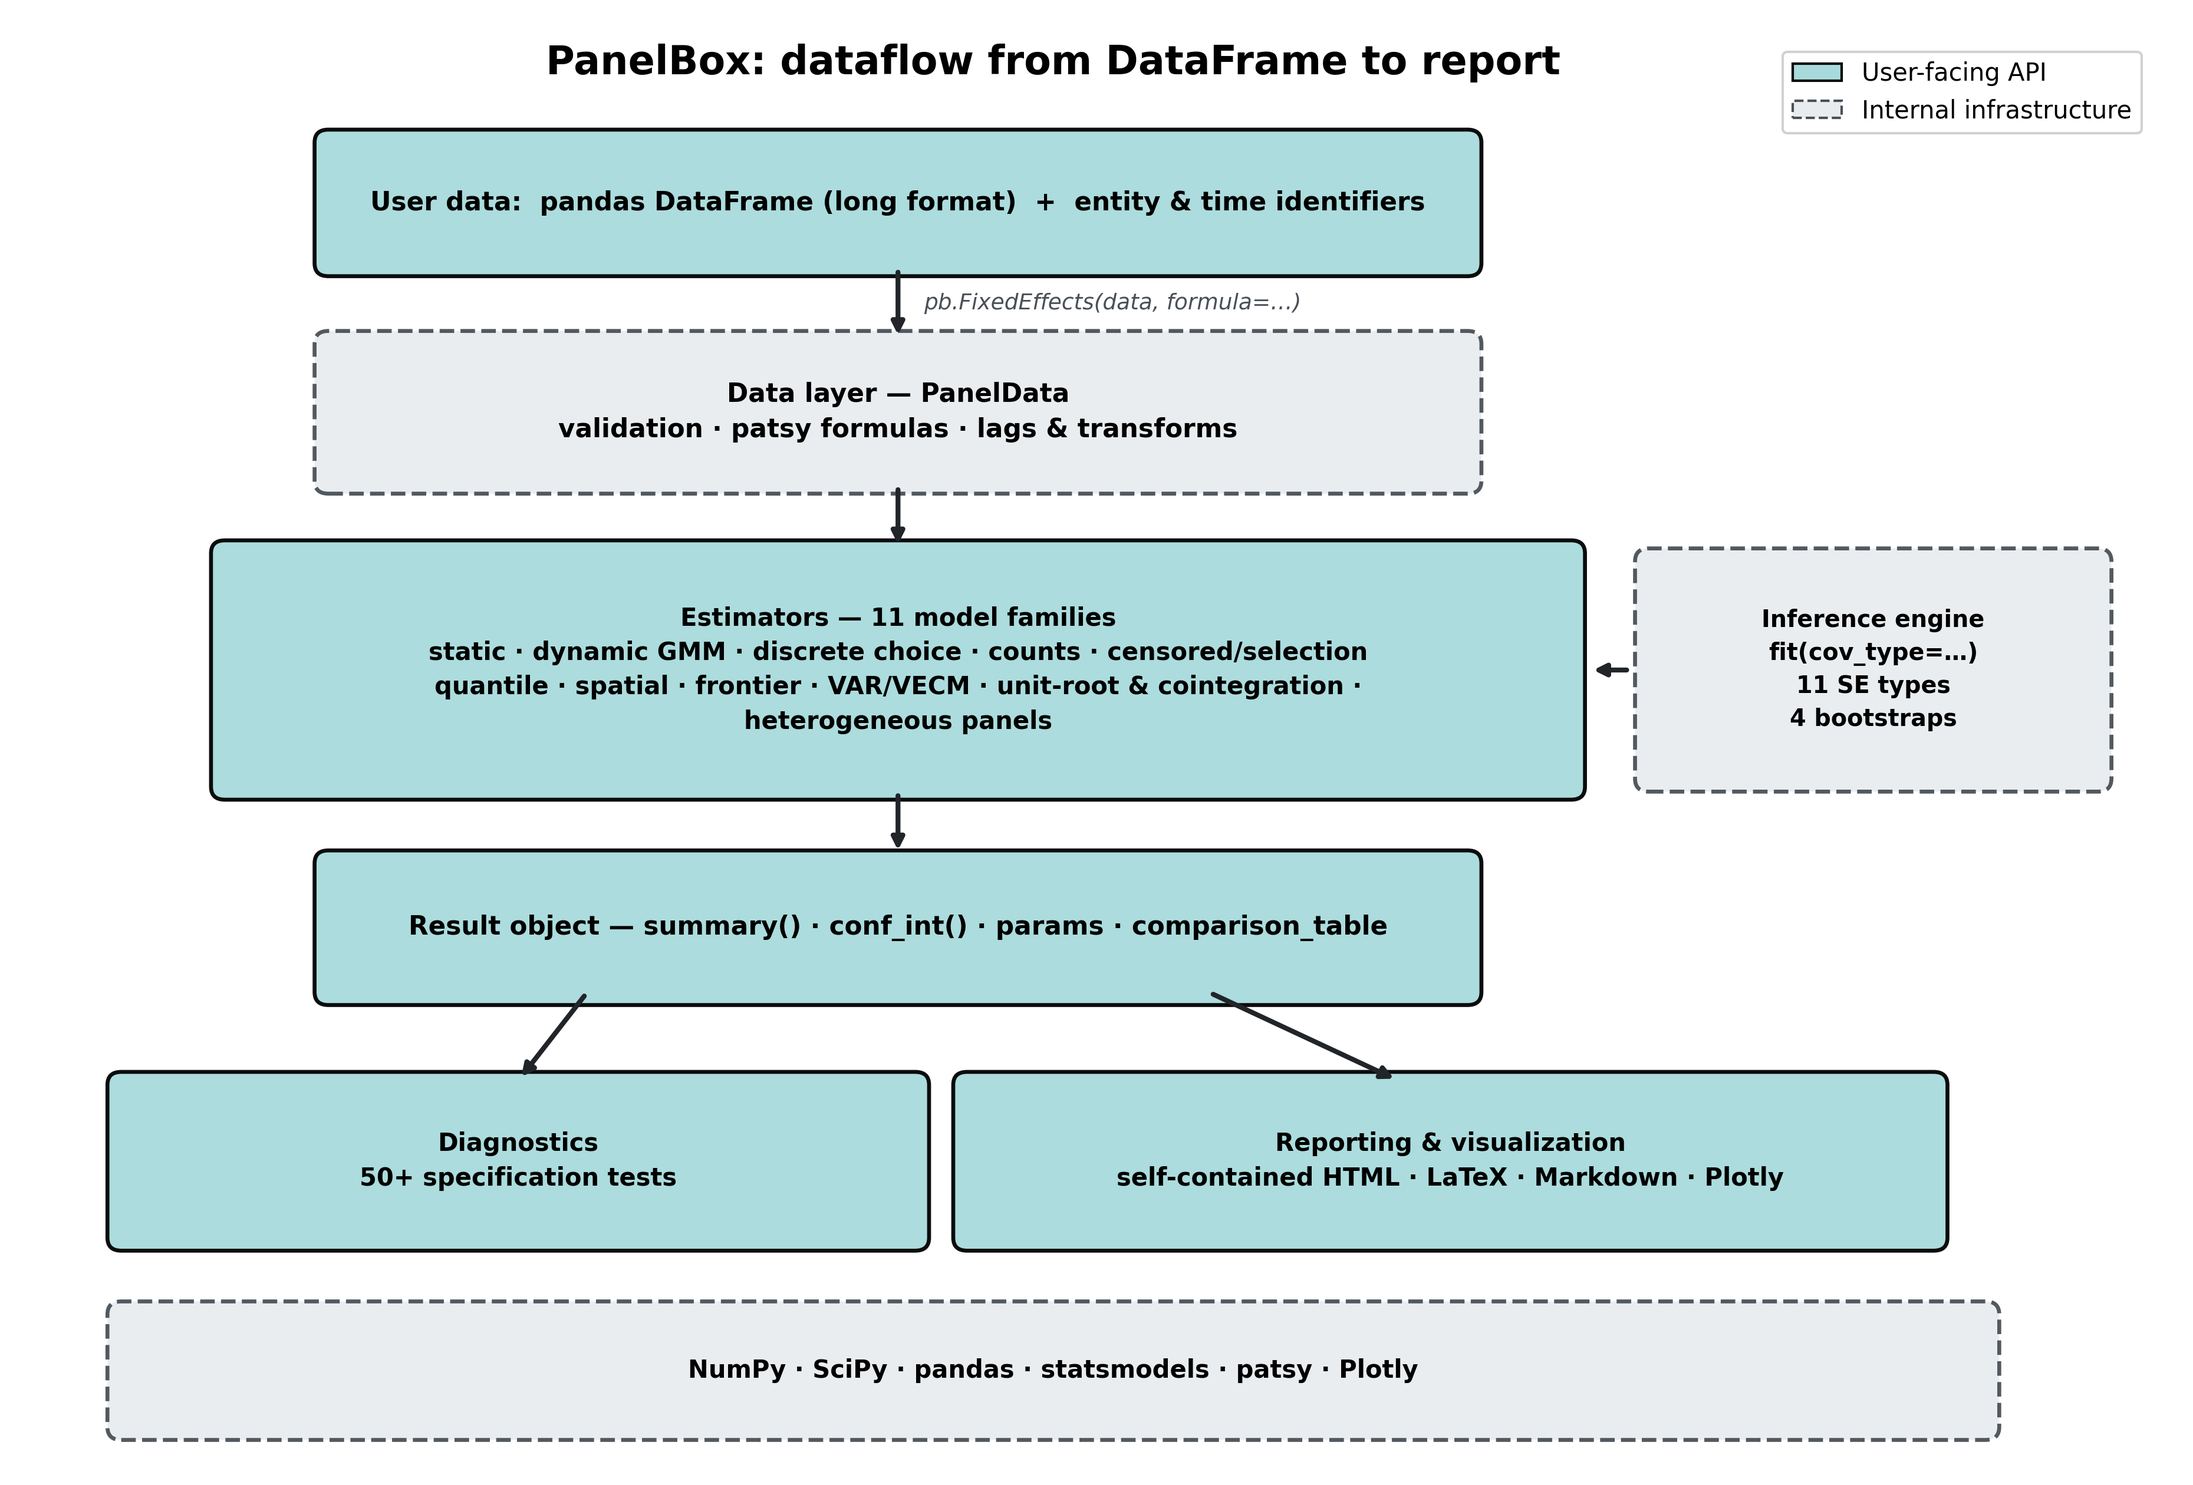
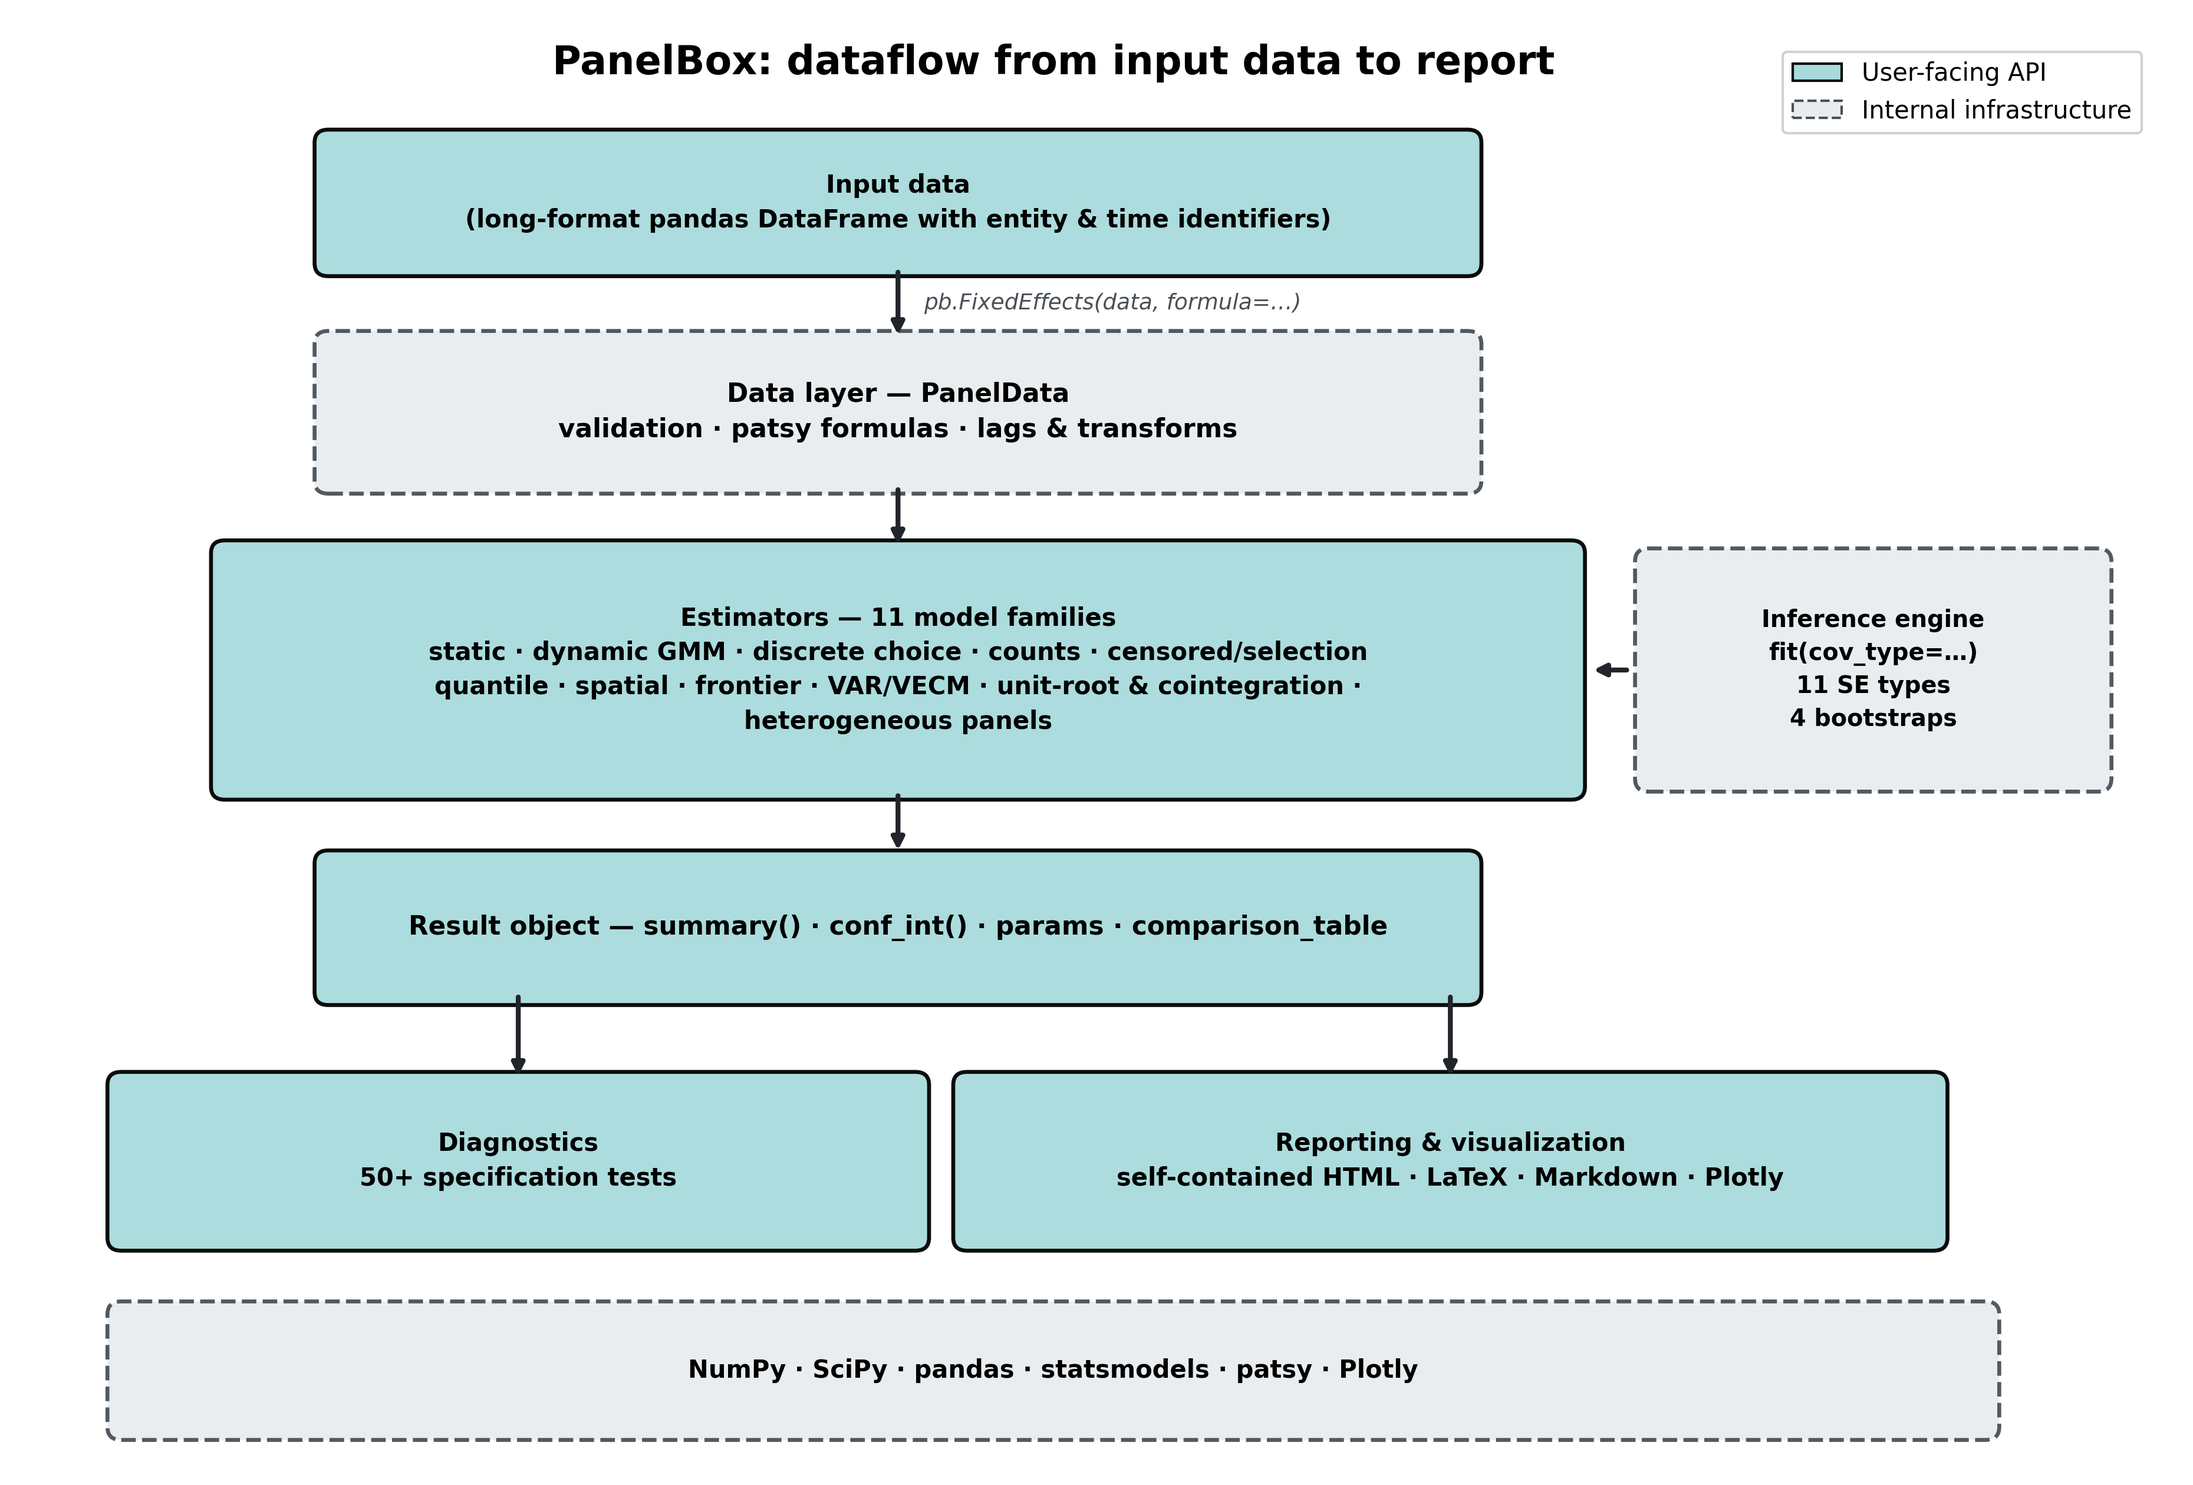
docs(paper): address apaleyes second review round
- Correct unbalanced-panel retention figures with reproducible numbers on
  the Arellano-Bond data: complete-case 12.2% (126/1031), PanelBox 72.8%
  (751/1031); drop unverified xtabond2 retention claim; fix dataset
  description (unbalanced, 7-9 years, 1976-1984)
- Abstract in present tense, origin sentence moved out of abstract
- Clarify workflow wording, statsmodels API phrasing, 'large N' scale,
  execution-time comparison, unit-root implementation statement
- Add documentation link (panelbox.readthedocs.io)
- Rewrite limitations paragraph; split long linearmodels sentence
- Fig 1: emphasize input data, straighten arrows; Fig 2: two-bar retention
  comparison; Fig 5: move legend above plot

Changed region(s): [[0.1559, 0.1238, 0.6548, 0.1548], [0.2495, 0.031, 0.7172, 0.0619], [0.2183, 0.681, 0.2495, 0.7429]]

diff --git a/papers/gustavo_haase/main.md b/papers/gustavo_haase/main.md
@@ -3,12 +3,9 @@
 title: "PanelBox: A Comprehensive Python Library for Panel Data Econometrics"
 abstract: |
   Panel data econometrics is ubiquitous in economic and social-science
-  research, yet Python has lacked a comprehensive library for advanced panel
-  analysis: researchers have had to fall back on proprietary Stata or on R,
-  breaking otherwise Python-native, reproducible workflows. PanelBox grew out
-  of our model-validation practice in credit risk, where econometric models
-  running in production Python systems had to be exported to Stata or R for
-  estimation and validation. We introduce
+  research, yet Python lacks a comprehensive library for advanced panel
+  analysis: researchers have to fall back on proprietary Stata or on R,
+  breaking otherwise Python-native, reproducible workflows. We introduce
   PanelBox, the first all-in-one Python library for panel data econometrics,
   implementing more than 70 models across 11 families — static linear models,
   dynamic GMM estimators (Arellano–Bond, Blundell–Bond with the Windmeijer
@@ -38,7 +35,8 @@ reconciling discrepancies by hand — slow, error-prone, and impossible to
 automate end to end. What started as an internal toolkit for validating panel
 models in pure Python grew, model family by model family, into PanelBox.
 
-The data at the center of this workflow are *panel data* — repeated
+The data at the center of a production econometrics workflow like ours are
+*panel data* — repeated
 observations on the same entities over time, such as firms observed annually
 or countries tracked across decades. Panels are the empirical backbone of
 modern economics and the social sciences [@baltagi2021; @wooldridge2010], and
@@ -65,11 +63,11 @@ SciPy [@scipy] — has lagged conspicuously behind in panel econometrics.
 
 Existing Python libraries cover only fragments of the workflow.
 `linearmodels` [@linearmodels2019] provides static fixed- and random-effects
-models — the workhorse estimators that remove, or explicitly model, the
-stable entity traits discussed above — and some support for instrumental
+models, the workhorse estimators that remove, or explicitly model, the stable
+entity traits discussed above. It also offers some support for instrumental
 variables (proxy regressors used in place of a variable that is correlated
-with the error term), but no dynamic GMM, the estimator required when the
-outcome depends on its own past, introduced in detail below. `pyfixest`
+with the error term). It has no dynamic GMM, however, the estimator required
+when the outcome depends on its own past, which we introduce below. `pyfixest`
 excels at high-dimensional fixed effects but offers neither GMM nor dynamic
 panels; and `statsmodels` [@seabold2010statsmodels] has time-series tools but
 no panel-specific GMM. Critically, none of them implement panel unit-root or
@@ -96,12 +94,12 @@ library is used and extended in practice.
 
 ## Library design: one workflow from data to report
 
-PanelBox is organized around the estimation workflow rather than around a
-catalogue of methods. The user starts from a pandas `DataFrame` in long
+PanelBox is designed to model the standard estimation workflow of applied
+econometrics. The user starts from a pandas `DataFrame` in long
 format; a common data layer wraps it together with entity and time
 identifiers, and everything downstream consumes that layer. Estimators accept
-R-style formulas via `patsy` and return a result object following the
-`statsmodels` conventions — `summary()`, `conf_int()`, `to_latex()`,
+R-style formulas via `patsy` and return a result object that follows the
+conventional `statsmodels` API — `summary()`, `conf_int()`, `to_latex()`,
 `to_html()` — so that the same result flows into the shared inference layer
 (11 standard-error types, four bootstrap methods), the diagnostics layer (50+
 tests), and the reporting layer that renders self-contained HTML, LaTeX, or
@@ -109,8 +107,9 @@ Markdown. @fig:architecture summarizes this pipeline.
 
 :::{figure} figures/fig1_architecture.png
 :label: fig:architecture
-PanelBox as a dataflow. A long-format pandas `DataFrame` enters the shared
-data layer, flows through the 11 estimator families — with the inference
+PanelBox as a dataflow. Input data, represented as a long-format pandas
+`DataFrame`, enter the shared
+data layer, flow through the 11 estimator families — with the inference
 engine supplying standard errors and bootstraps at `fit()` time — and the
 resulting objects feed the diagnostics and reporting layers. Solid colored
 boxes are the user-facing API; dashed gray boxes are internal infrastructure.
@@ -147,8 +146,10 @@ $i$ that is constant over time, such as a firm's management quality — and
 $\lambda_t$ are time effects, absorbing shocks common to all entities in
 period $t$, such as a recession year. Fixed
 effects are computed by within-transformation using sparse matrix operations
-and pandas `groupby`, so the estimator scales to large $N$ and supports
-unbalanced panels with entity-specific $T_i$.
+and pandas `groupby`, so the estimator scales to panels with thousands of
+entities and tens of thousands of observations (the benchmarks in
+@fig:performance go up to $N = 2{,}500$) and supports unbalanced panels with
+entity-specific $T_i$.
 
 ## Estimating dynamics: panel GMM
 
@@ -167,7 +168,7 @@ section. The lagged outcome is itself driven by the entity effect $\eta_i$, so
 it is correlated with the composite error: pooled OLS is biased upward, and
 the within estimator downward (the Nickell bias, @nickell1981) — the true
 dynamics lie somewhere in between, and neither estimator can find them. The
-resolution, due to @arellano1991 and @blundell1998, is to transform away
+resolution, proposed by @arellano1991 and @blundell1998, is to transform away
 $\eta_i$ and instrument the problematic regressor with its own older lags:
 old enough to be uncorrelated with today's shock, recent enough to remain
 informative. This machinery — dynamic panel GMM — is PanelBox's flagship
@@ -214,10 +215,10 @@ the moment conditions.
 
 Missing observations are a recurring practical obstacle in dynamic GMM: because
 each instrument depends on a specific lag (e.g. $y_{i,t-2}$ instruments
-$\Delta y_{it}$), a single gap can invalidate instruments. Existing tools
-handle this bluntly — `xtabond2` silently discards observations with missing
-instruments, and many practitioners drop every entity with any missing value,
-causing severe sample loss.
+$\Delta y_{it}$), a single gap can invalidate instruments. The common
+practical response is blunt: many practitioners drop every entity that is
+not observed in every period (complete-case analysis), causing severe sample
+loss.
 
 PanelBox instead validates instruments observation-by-observation. For each
 entity $i$ and period $t$ it (1) identifies the required instrument lags, (2)
@@ -225,21 +226,27 @@ checks their availability, (3) builds an entity-specific instrument set from
 whatever lags exist, and (4) assembles the block-diagonal instrument matrix
 $\mathbf{Z}$ from variable-sized blocks (@fig:unbalanced). An observation is
 kept whenever valid instruments exist, rather than discarding the whole
-entity. On the Arellano–Bond employment data this retains 72% of observations,
-against roughly 40% for `xtabond2` and 0% for naive complete-case analysis,
-shrinking standard errors without compromising instrument validity.
+entity. The Arellano–Bond employment data illustrate the difference: 140
+firms are observed for 7 to 9 years each (1,031 observations), and only 14
+of them for all 9 years. Complete-case analysis keeps those 14 firms, 126
+observations or 12.2% of the panel. PanelBox keeps 751 observations (72.8%),
+which is every observation for which a valid instrument exists once one lag
+and one difference are consumed, shrinking standard errors without
+compromising instrument validity.
 
 :::{figure} figures/fig2_unbalanced_algorithm.png
 :label: fig:unbalanced
 The unbalanced-panel algorithm: instruments are validated per observation and
-entity-specific instrument sets are assembled into a block-diagonal matrix,
-retaining observations that fixed-template approaches discard.
+entity-specific instrument sets are assembled into a block-diagonal matrix.
+On the Arellano–Bond employment data this retains 72.8% of observations against
+12.2% for complete-case analysis.
 :::
 
 ## Testing assumptions: unit roots and cointegration
 
-Estimation is only the middle of the workflow; its validity rests on
-assumptions that must themselves be tested. For macroeconomic panels the
+A real-world econometrics workflow does not end when estimation is done: the
+validity of the estimates rests on assumptions that must themselves be
+tested. For macroeconomic panels the
 first question is whether each variable has a stable long-run level or
 wanders without one (a *unit root*): regressing one wandering series on
 another produces convincing-looking but spurious correlations, so testing for
@@ -249,8 +256,10 @@ estimating relationships among variables such as GDP, prices, or exchange
 rates. This capability is unique to PanelBox among Python panel libraries,
 despite being standard in macroeconomics and finance.
 
-Three panel unit-root tests build on the entity-specific augmented
-Dickey–Fuller regression, testing $H_0: \rho_i = 0$. The LLC test
+PanelBox implements the three standard panel unit-root tests and the two
+standard cointegration tests. The unit-root tests build on the
+entity-specific augmented Dickey–Fuller regression, testing
+$H_0: \rho_i = 0$. The LLC test
 [@levin2002] assumes a common $\rho$ and uses a pooled adjusted $t$-statistic;
 the IPS test [@improsan2003] allows heterogeneous $\rho_i$ and averages the
 individual $t$-statistics into an asymptotically normal $W$; and Fisher-type
@@ -280,7 +289,7 @@ efficiency frontiers. PanelBox covers these in the same interface;
 @tbl:families maps each family to its closest Stata and R equivalents, and we
 highlight below only the capabilities not available elsewhere in Python. The
 complete catalogue, with an executable example notebook per family, is in the
-official documentation.
+official documentation at <https://panelbox.readthedocs.io/>.
 
 ```{list-table} The 11 model families in PanelBox and their closest equivalents in Stata and R. A dash means no established equivalent.
 :label: tbl:families
@@ -402,21 +411,24 @@ GMM (`gmm_lags`, `collapse`), arbitrary variable transformations through
 `patsy` formulas, marginal-effects options for nonlinear models, and the
 output format of every report (HTML, LaTeX, Markdown).
 
-Two honest boundaries: there is currently no public API for user-defined
-moment conditions or custom estimators — internally all models subclass a
-common base model and results class, and a documented, stable extension
-interface is on the roadmap — and GMM is restricted to linear dynamic panels.
-The official documentation includes a gallery of executable Jupyter notebooks
-covering every model family end to end, which is the recommended starting
-point for adapting the library to a new use case.
+At the moment there are two limitations in PanelBox that we hope to overcome
+in the future. First, there is no public API for user-defined moment
+conditions or custom estimators: internally all models subclass a common
+base model and results class, and a documented, stable extension interface
+is on the roadmap. Second, GMM is restricted to linear dynamic panels. The
+official documentation (<https://panelbox.readthedocs.io/>) includes a
+gallery of executable Jupyter notebooks covering every model family end to
+end, which is the recommended starting point for adapting the library to a
+new use case.
 
 (sec:application)=
 ## Application: dynamic labor demand
 
 To illustrate the capabilities of the library, we use it to reproduce the
 canonical application of @arellano1991: a dynamic labor-demand
-equation on UK firm-level data, a balanced panel of $N = 140$ firms over
-$T = 9$ years (1979–1987). The model
+equation on UK firm-level data, an unbalanced panel of $N = 140$ firms
+observed for 7 to 9 years between 1976 and 1984 (1,031 observations). The
+model
 
 ```{math}
 :label: labor
@@ -520,8 +532,9 @@ floating-point rounding, below any reported digit.
   - 0.00
 ```
 
-PanelBox is implemented in pure Python on NumPy/SciPy yet remains within
-20–30% of Stata's compiled `Mata` for system-GMM estimation and runs roughly
+PanelBox is implemented in pure Python on NumPy/SciPy, yet its execution time
+for system-GMM estimation is within
+20–30% of Stata's compiled `Mata`, and it runs roughly
 3–4× faster than R's `plm` (@fig:performance). For typical panels
 ($N \approx 500$, $T \approx 10$) estimation completes in 1–2 seconds; memory
 scales linearly in $NT$ thanks to sparse matrices, and bootstrap inference
@@ -540,8 +553,8 @@ across 11 families, 50+ diagnostic tests, 11 standard-error estimators, an
 interactive visualization and reporting system, and 103 bundled datasets, in a
 single MIT-licensed package built on the scientific Python stack. Its dynamic
 GMM is validated against `xtabond2` to within 0.01% and adds an unbalanced-panel
-algorithm that retains 72% of observations where existing tools retain far
-fewer, and it offers capabilities — panel unit-root and cointegration tests,
+algorithm that retains 72.8% of observations where complete-case analysis
+retains 12.2%, and it offers capabilities — panel unit-root and cointegration tests,
 four-component stochastic frontiers, non-crossing quantile regression, panel
 VAR/VECM — previously unavailable in Python. The unusual emphasis on numerical
 validation throughout this paper is not incidental: it reflects the library's
